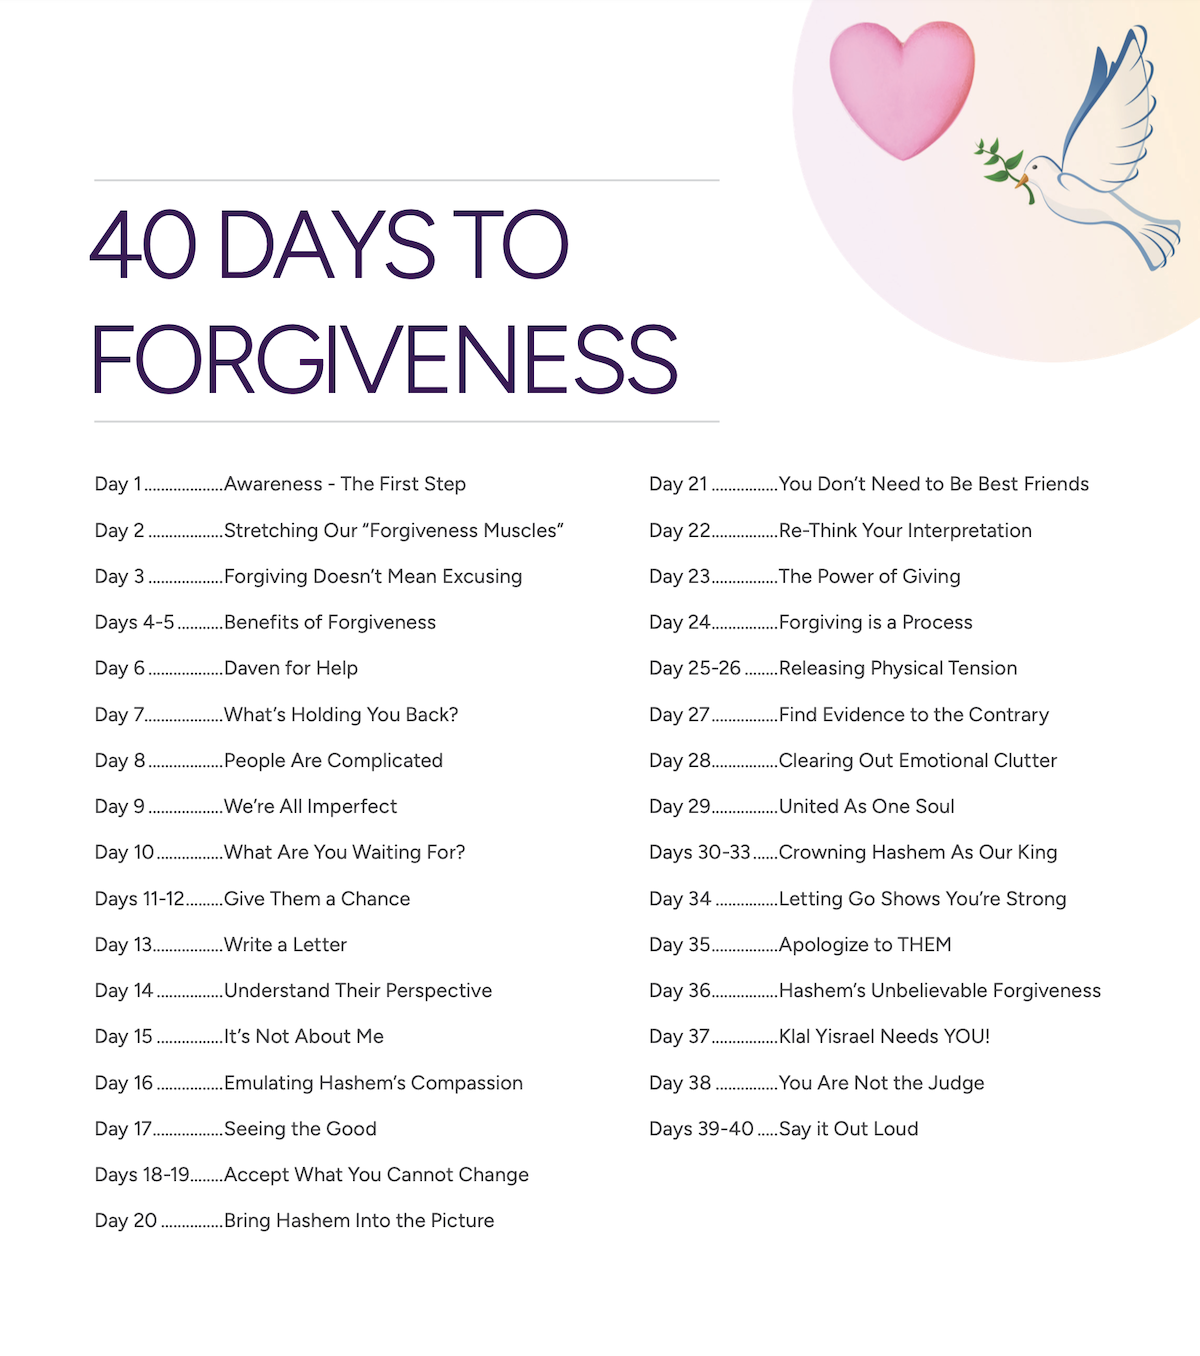
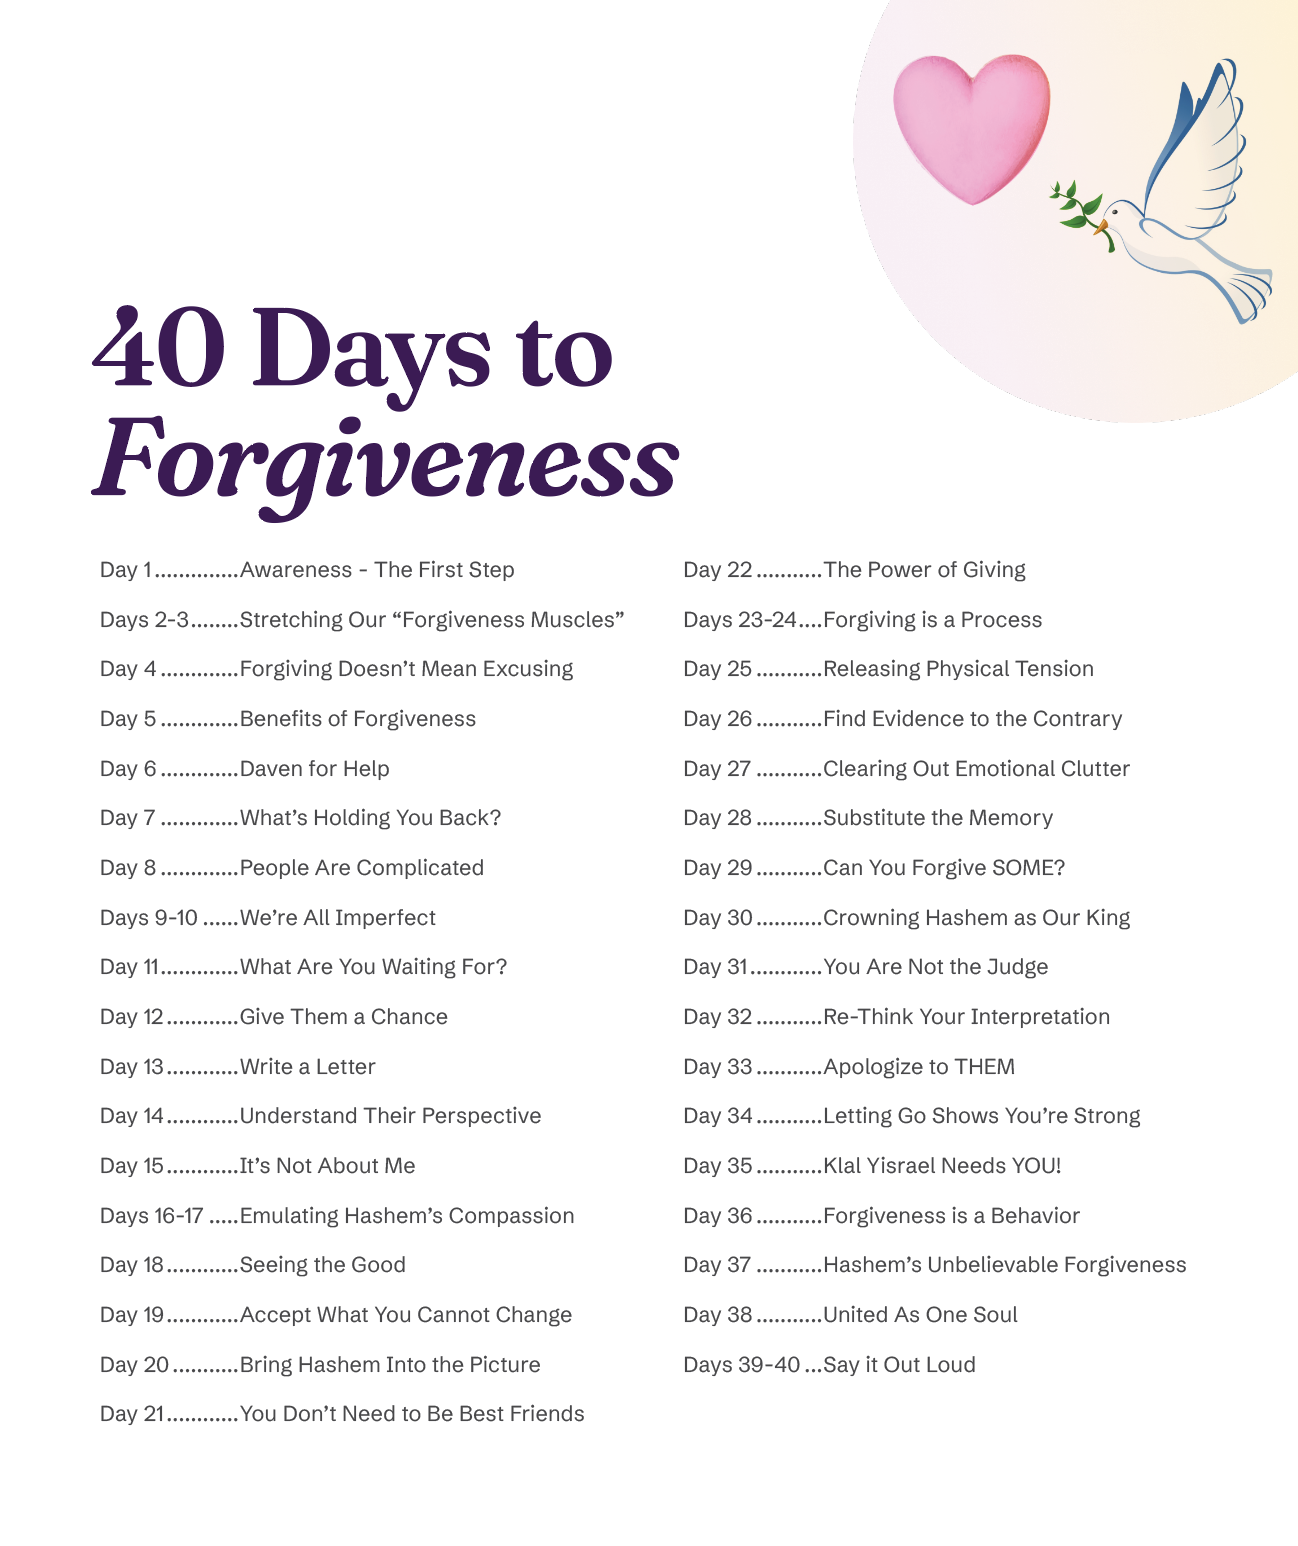
Update PDF thumbnail to the new table-of-contents cover
Also updates the img width/height attributes to match the new image's
actual dimensions (1298x1546) to avoid layout shift.

diff --git a/index.html b/index.html
@@ -469,7 +469,7 @@ document.addEventListener('DOMContentLoaded', function () {
   <div class="wrap">
     <div class="pdf-card reveal">
       <a class="pdf-thumb" href="https://middoschallenges.com/wp-content/uploads/2024/10/40-Days-to-Forgiveness-Middos-Challenges.pdf" target="_blank" rel="noopener" aria-label="Download the 40 Days to Forgiveness PDF">
-        <img src="images/forgiveness-pdf-thumbnail.png" alt="40 Days to Forgiveness PDF cover" width="1200" height="1356">
+        <img src="images/forgiveness-pdf-thumbnail.png" alt="40 Days to Forgiveness PDF cover" width="1298" height="1546">
       </a>
       <div class="pdf-body">
         <h3>Download all forgiveness challenges</h3>
